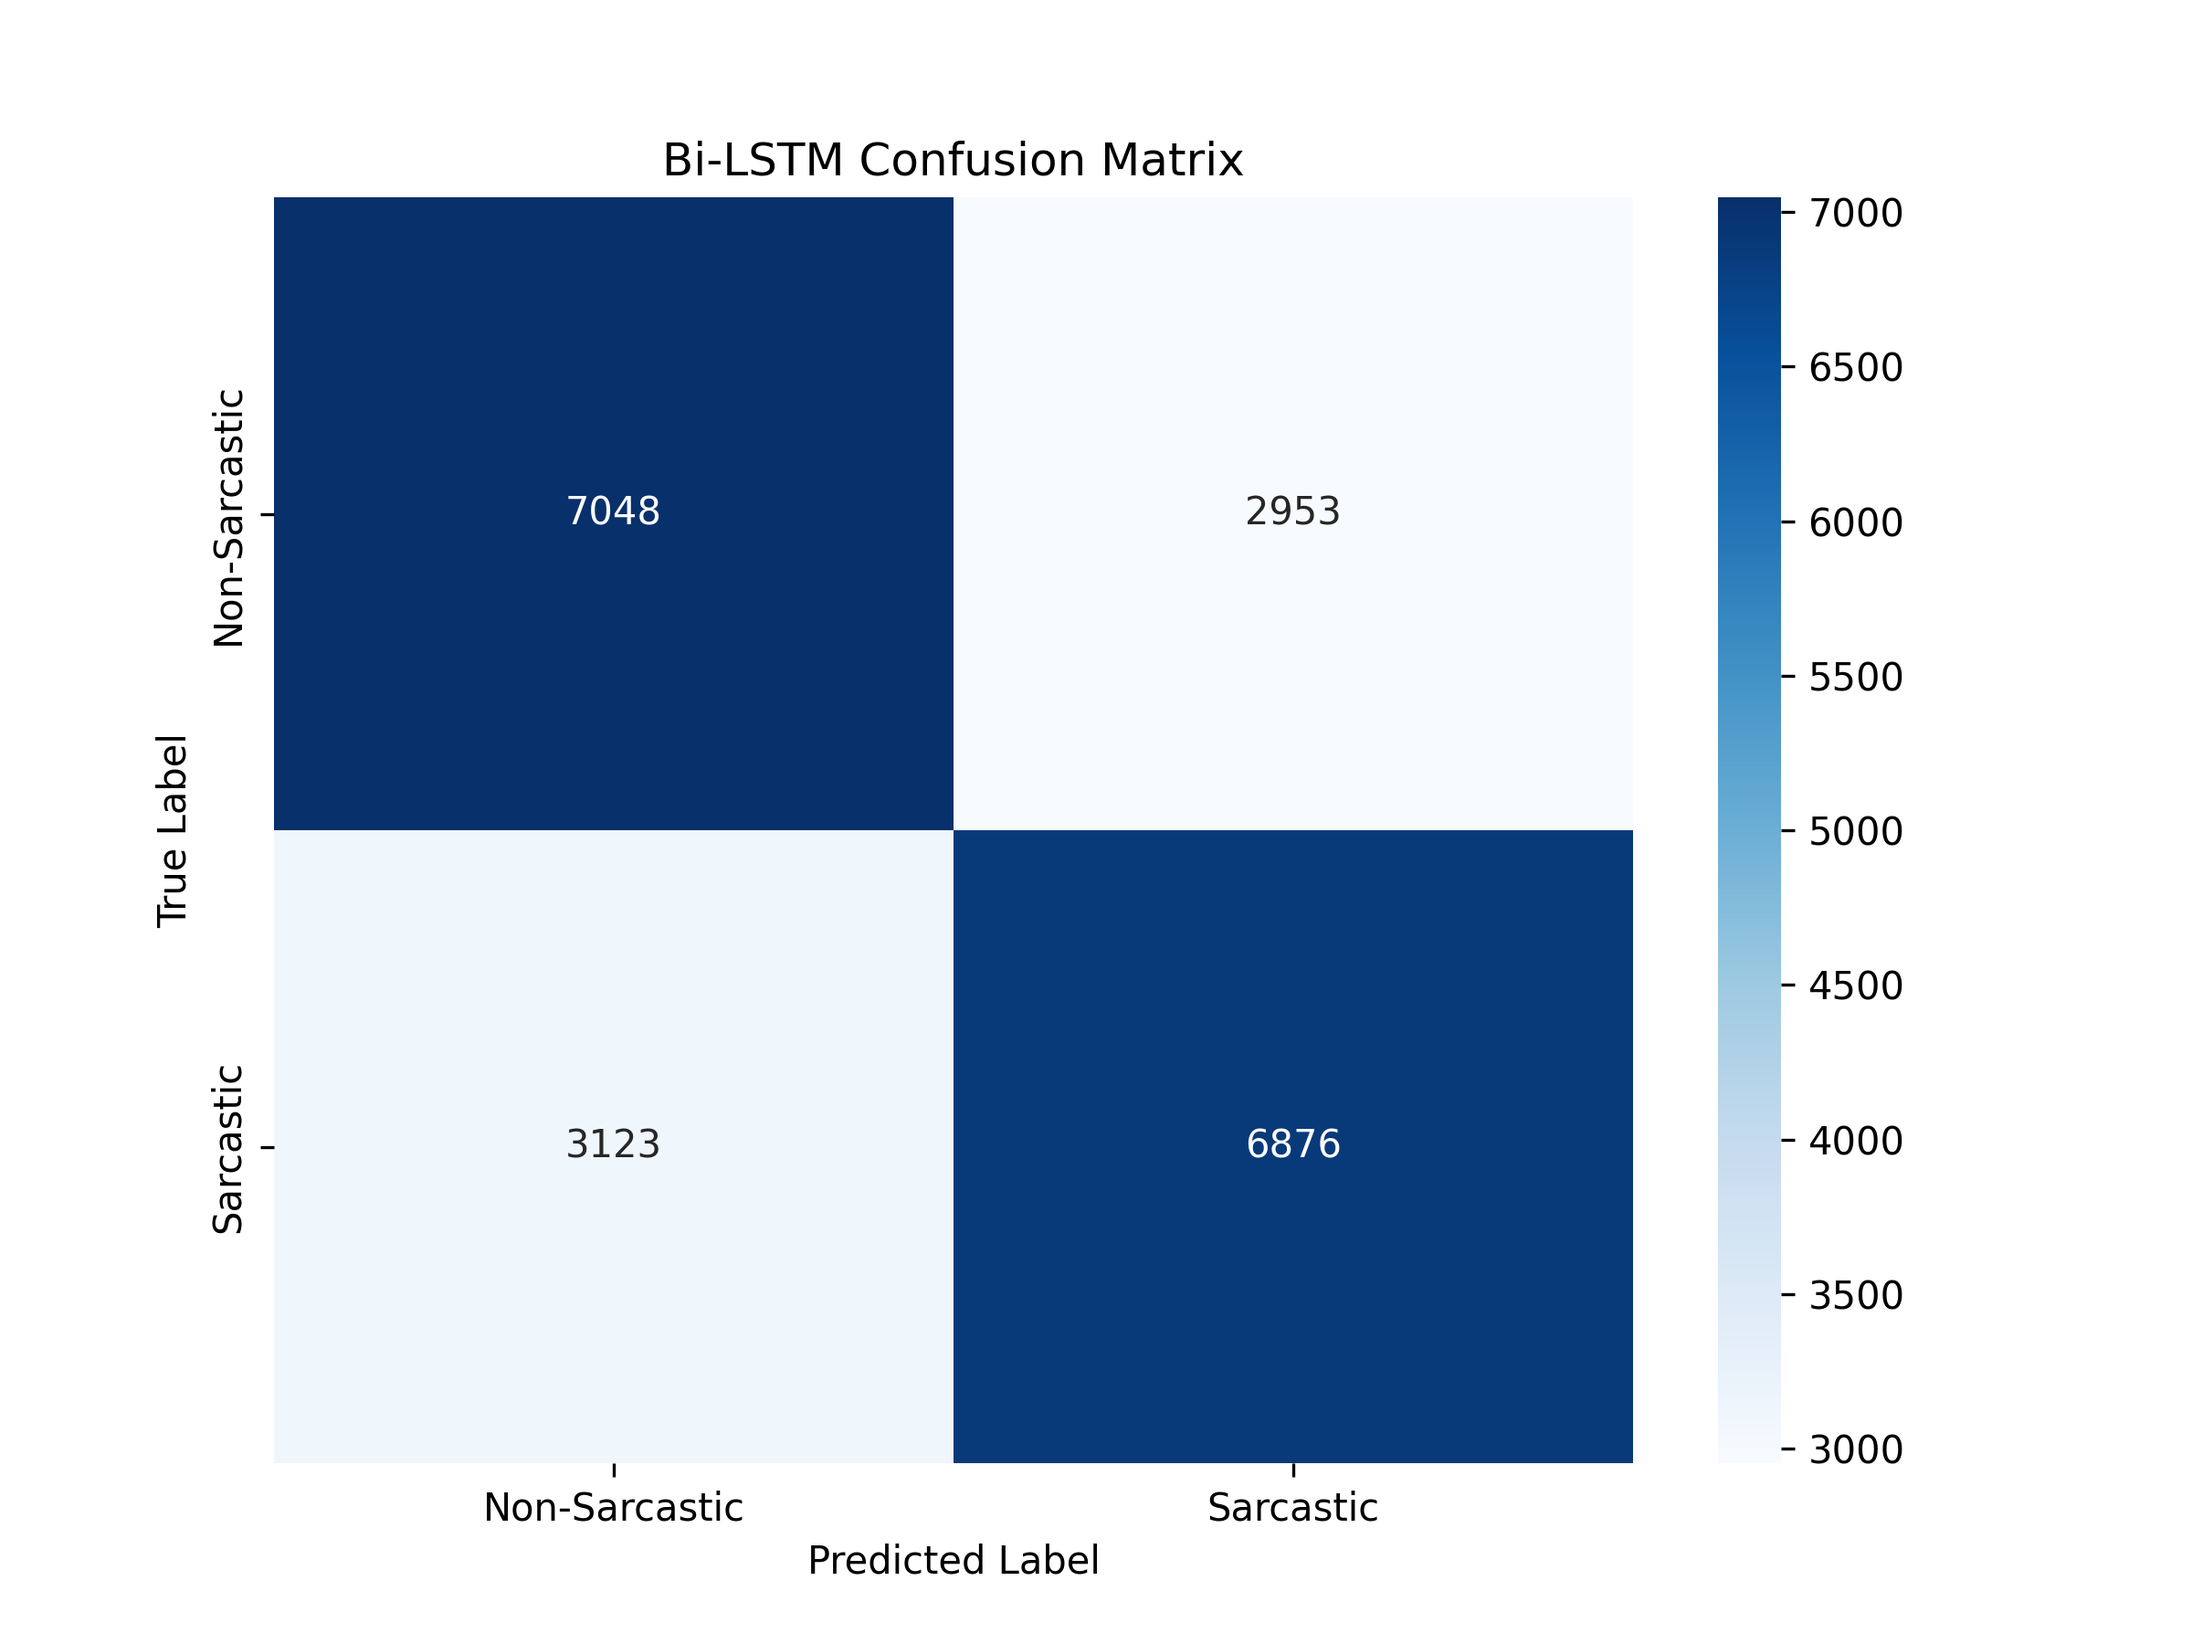
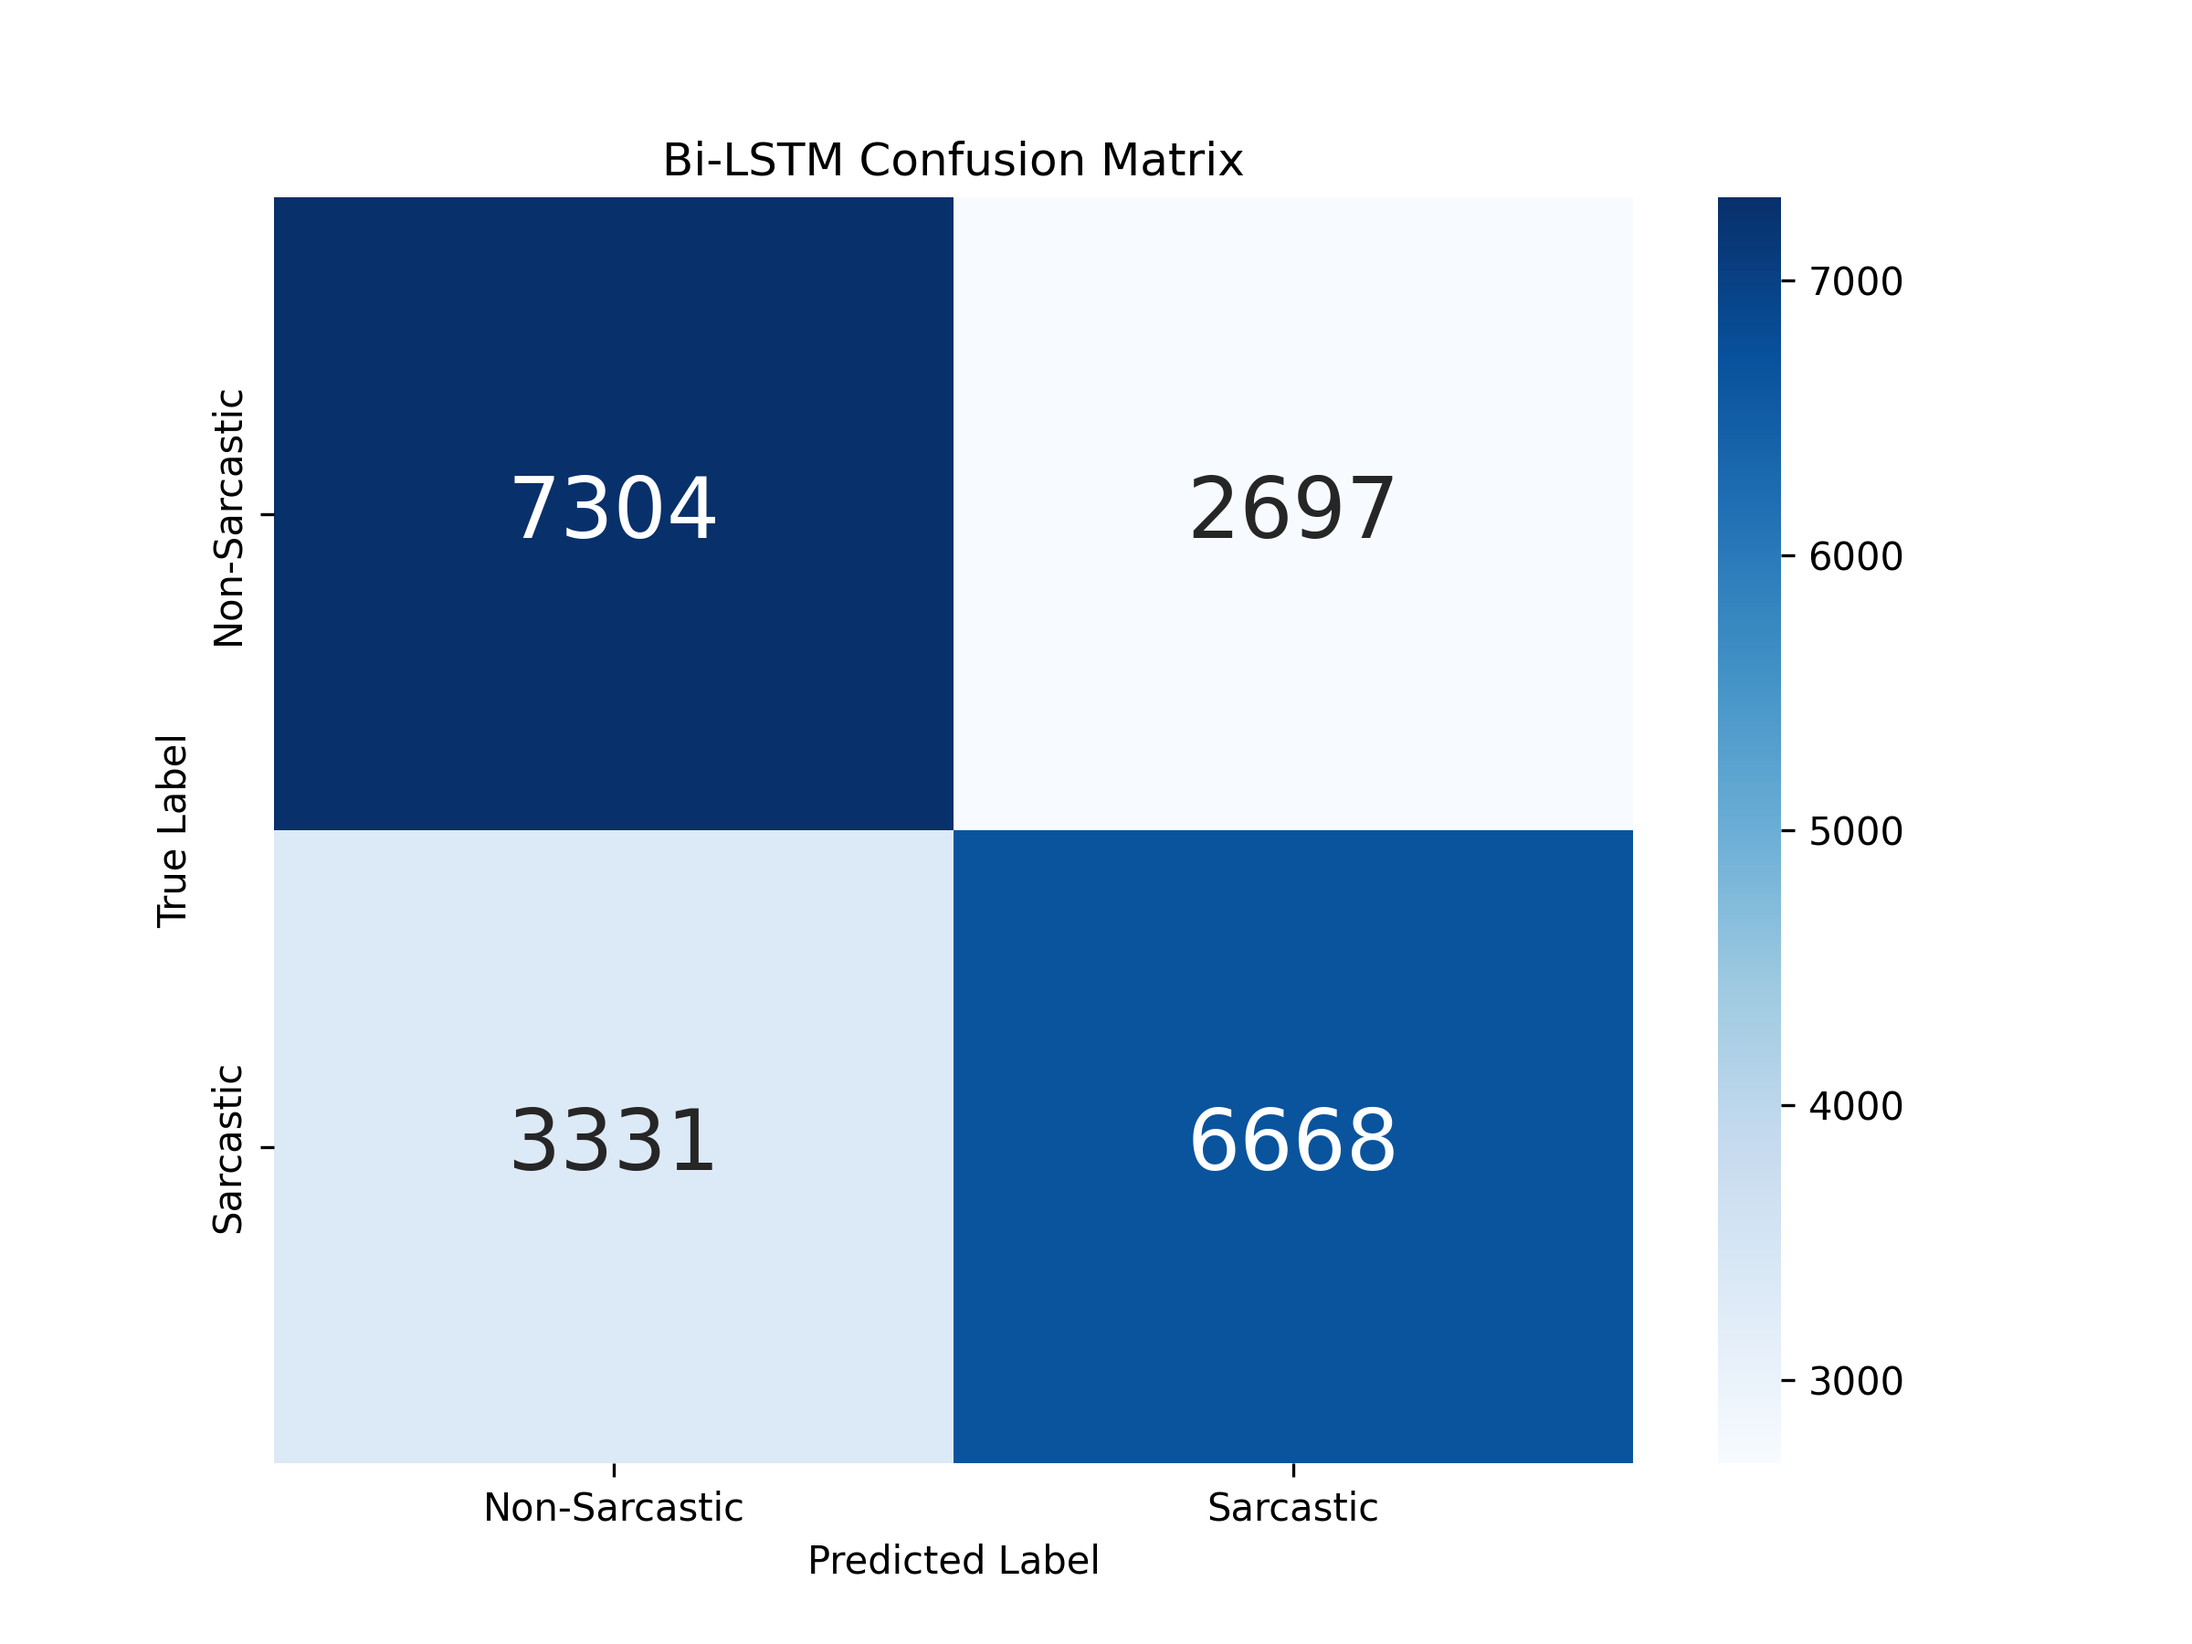
Changed Visuals

diff --git a/Bi-LSTM/Bi-LSTM.py b/Bi-LSTM/Bi-LSTM.py
@@ -41,7 +41,7 @@ def load_data(file_path, sample_size=100000):
     return df
 
 # Main processing
-df = load_data('../../train-balanced-sarcasm.csv')
+df = load_data('../train-balanced-sarcasm.csv')
 train_texts, test_texts, train_labels, test_labels = train_test_split(
     df['cleaned_comment'], 
     df['label'], 
@@ -156,7 +156,8 @@ plt.figure(figsize=(8, 6))
 cm = confusion_matrix(test_labels, y_pred)
 sns.heatmap(cm, annot=True, fmt='d', cmap='Blues',
            xticklabels=['Non-Sarcastic', 'Sarcastic'],
-           yticklabels=['Non-Sarcastic', 'Sarcastic'])
+           yticklabels=['Non-Sarcastic', 'Sarcastic'],
+           annot_kws={"size": 22})
 plt.title('Bi-LSTM Confusion Matrix')
 plt.ylabel('True Label')
 plt.xlabel('Predicted Label')
